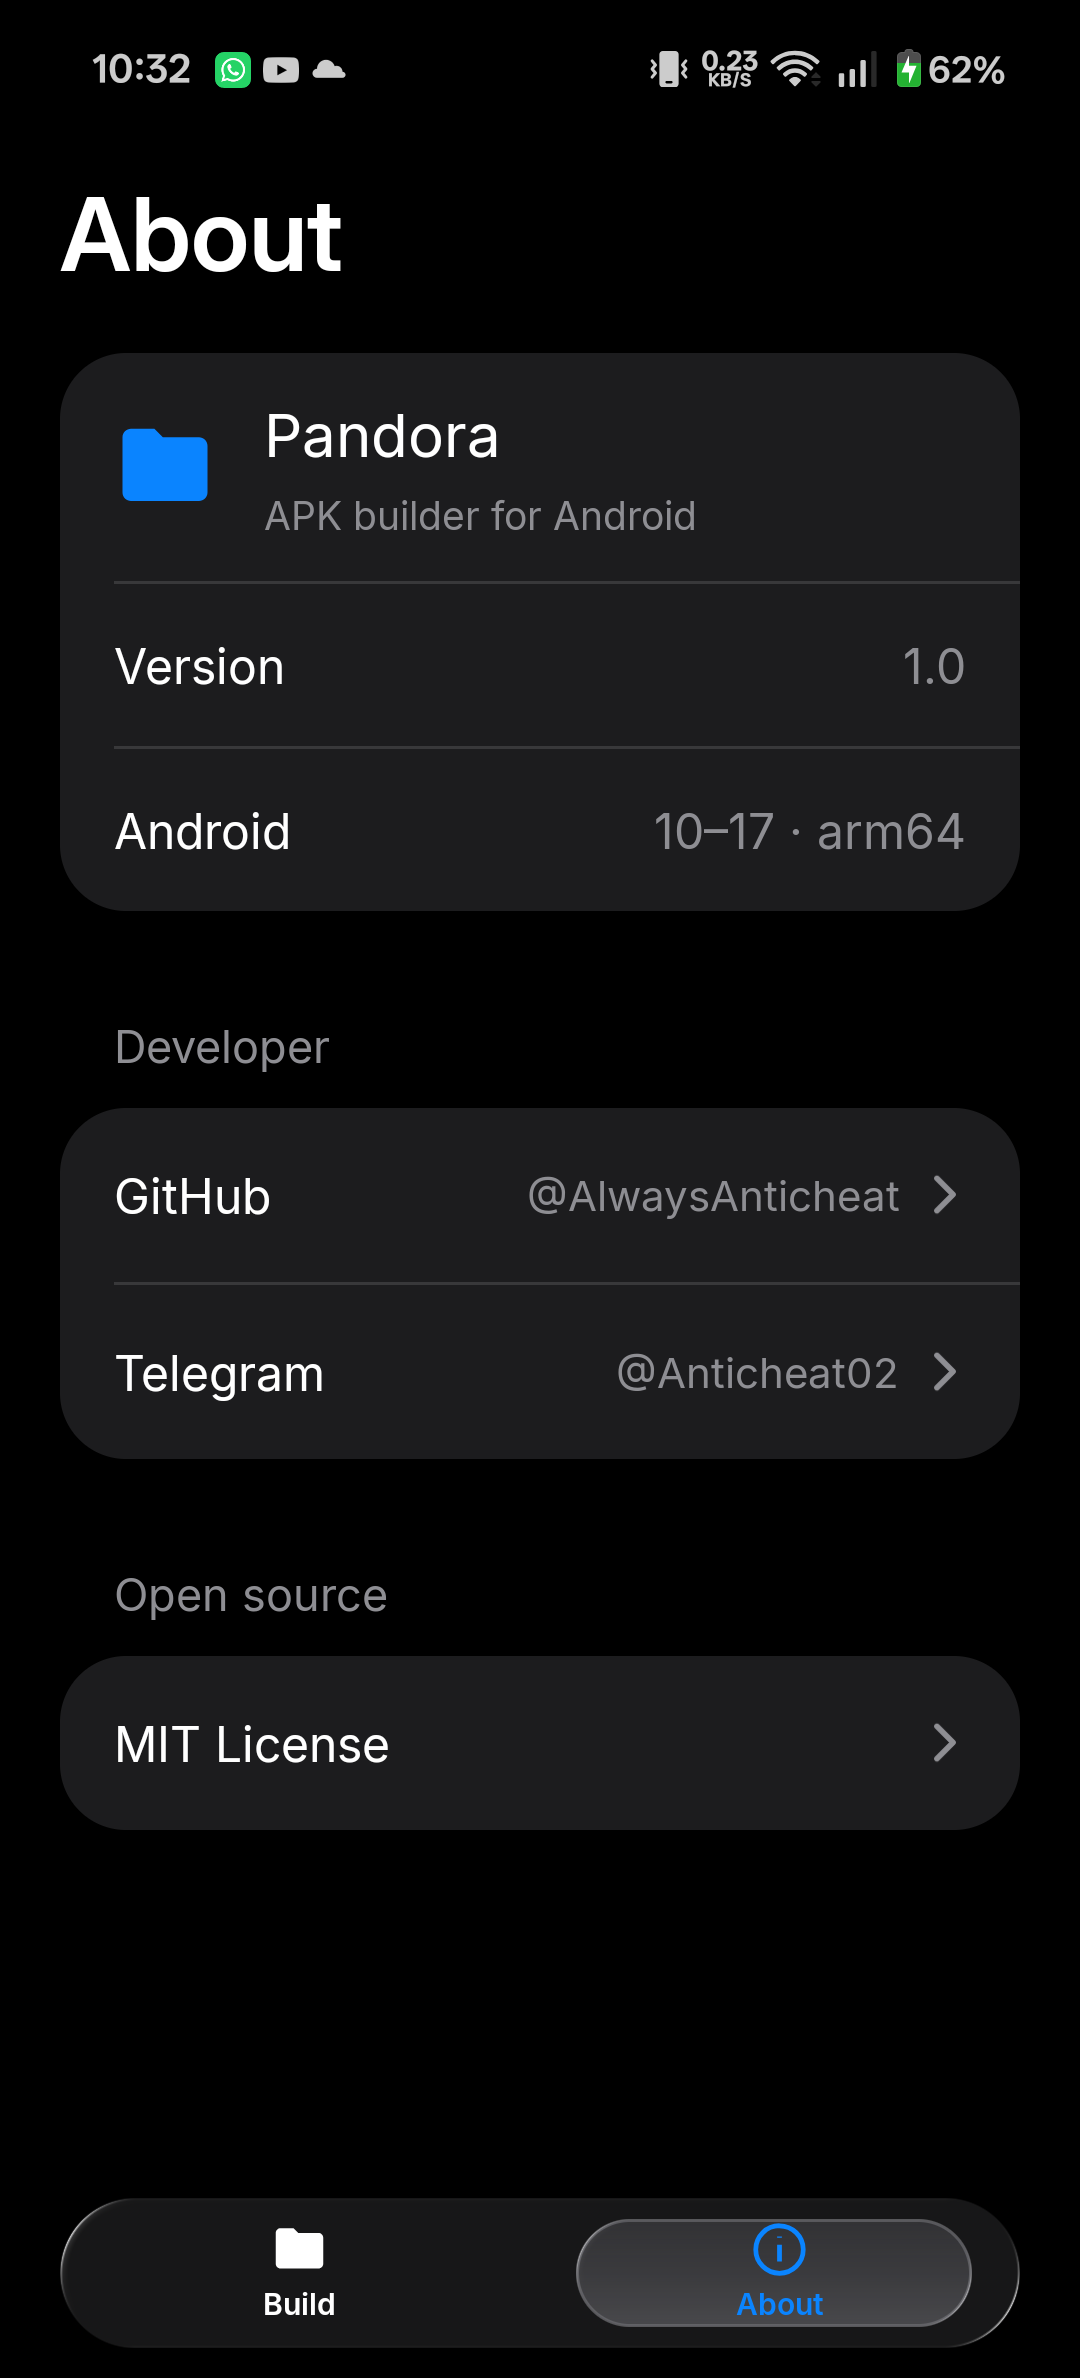
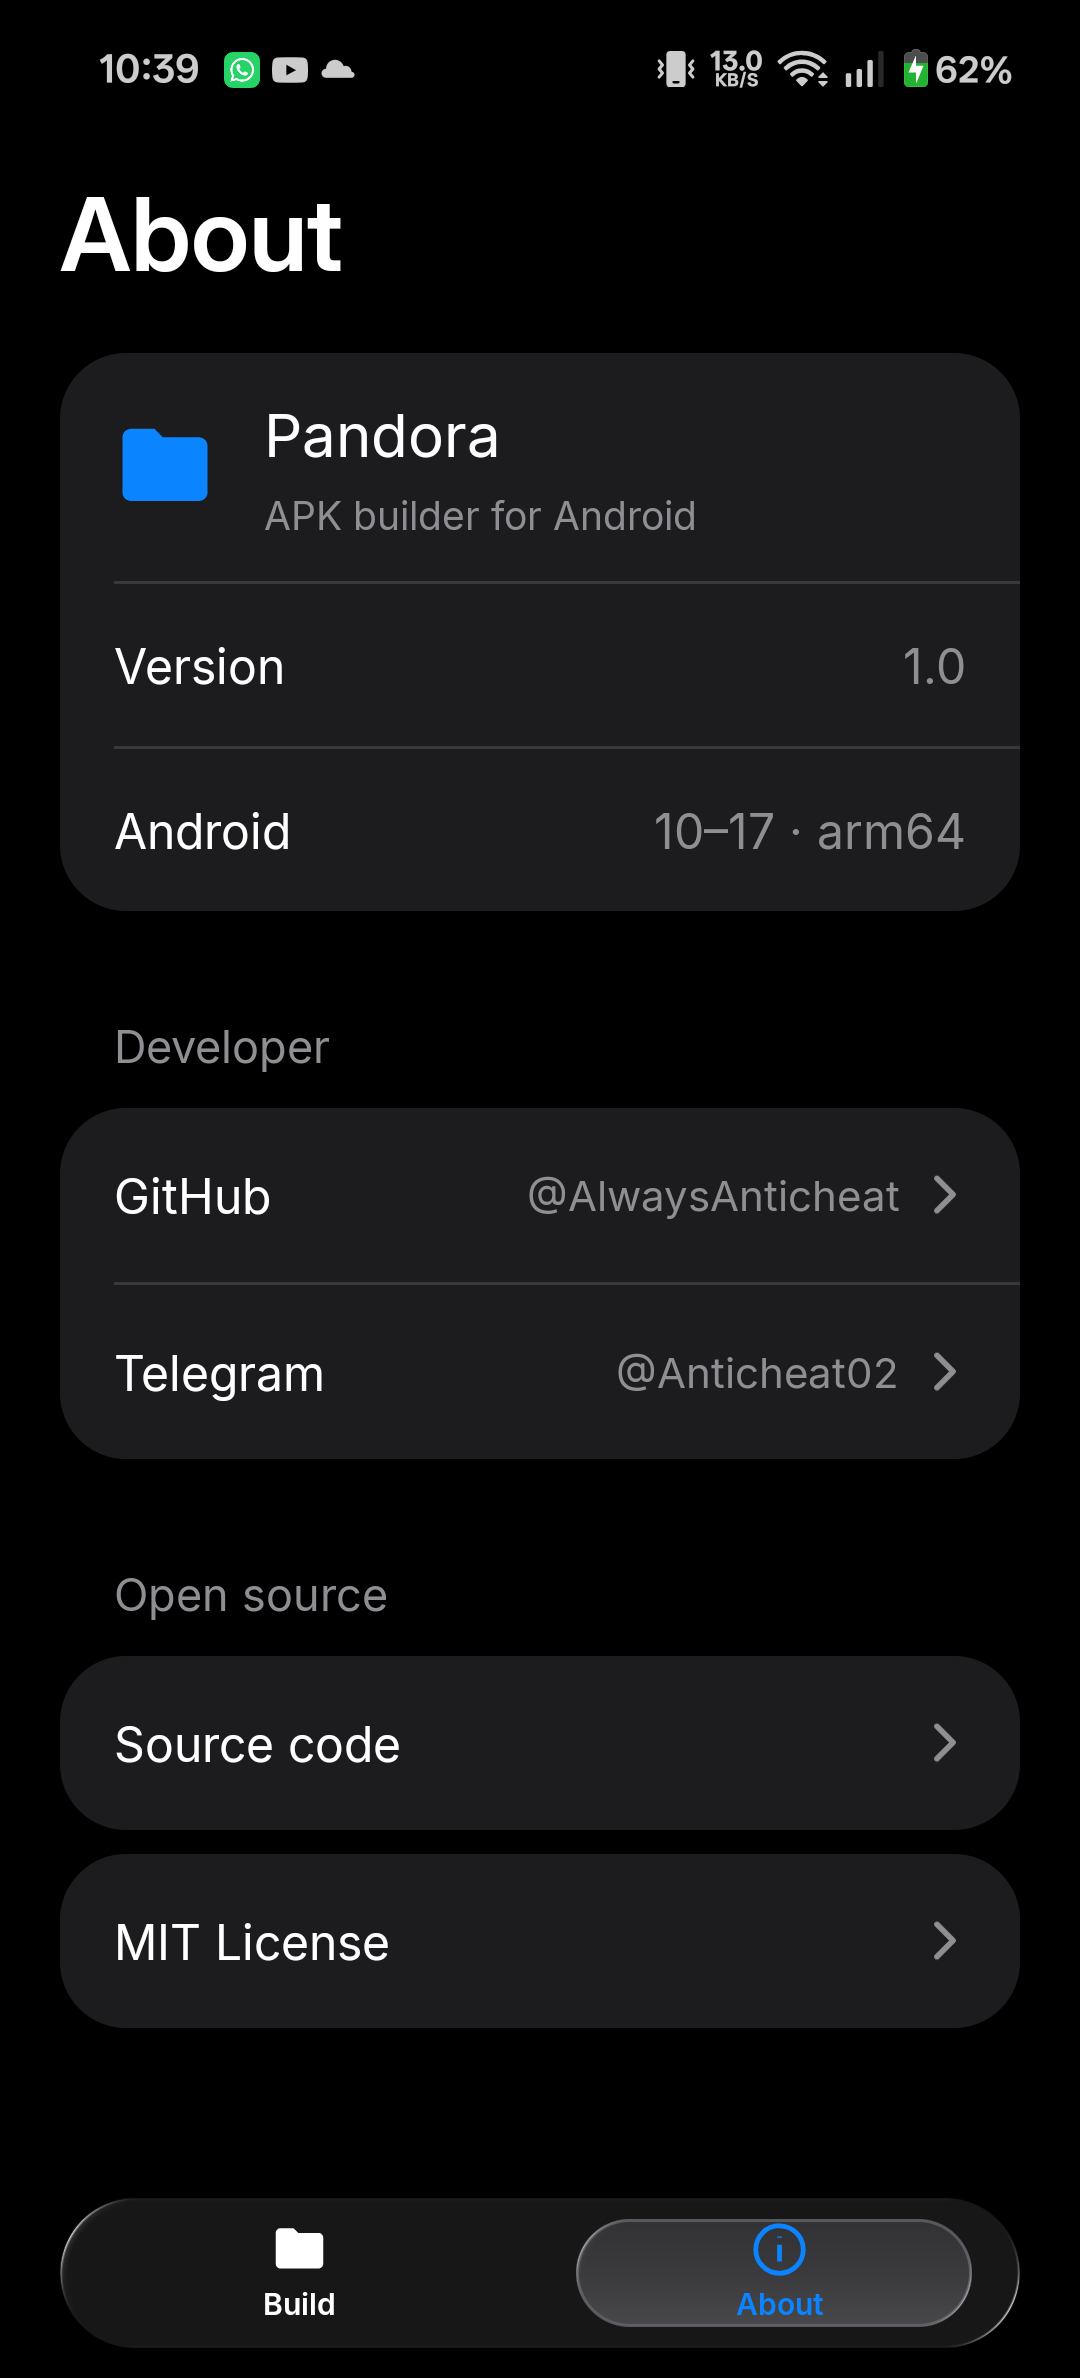
Link source repository from About tab

diff --git a/pandora/src/main/java/com/pandora/builder/MainActivity.java b/pandora/src/main/java/com/pandora/builder/MainActivity.java
@@ -79,6 +79,8 @@ public final class MainActivity extends Activity {
                 View -> Open("https://github.com/AlwaysAnticheat"));
         findViewById(R.id.TelegramButton).setOnClickListener(
                 View -> Open("https://t.me/Anticheat02"));
+        findViewById(R.id.SourceButton).setOnClickListener(
+                View -> Open("https://github.com/AlwaysAnticheat/Pandora"));
         findViewById(R.id.LicenseButton).setOnClickListener(
                 View -> Open("https://opensource.org/license/mit"));
         try {
